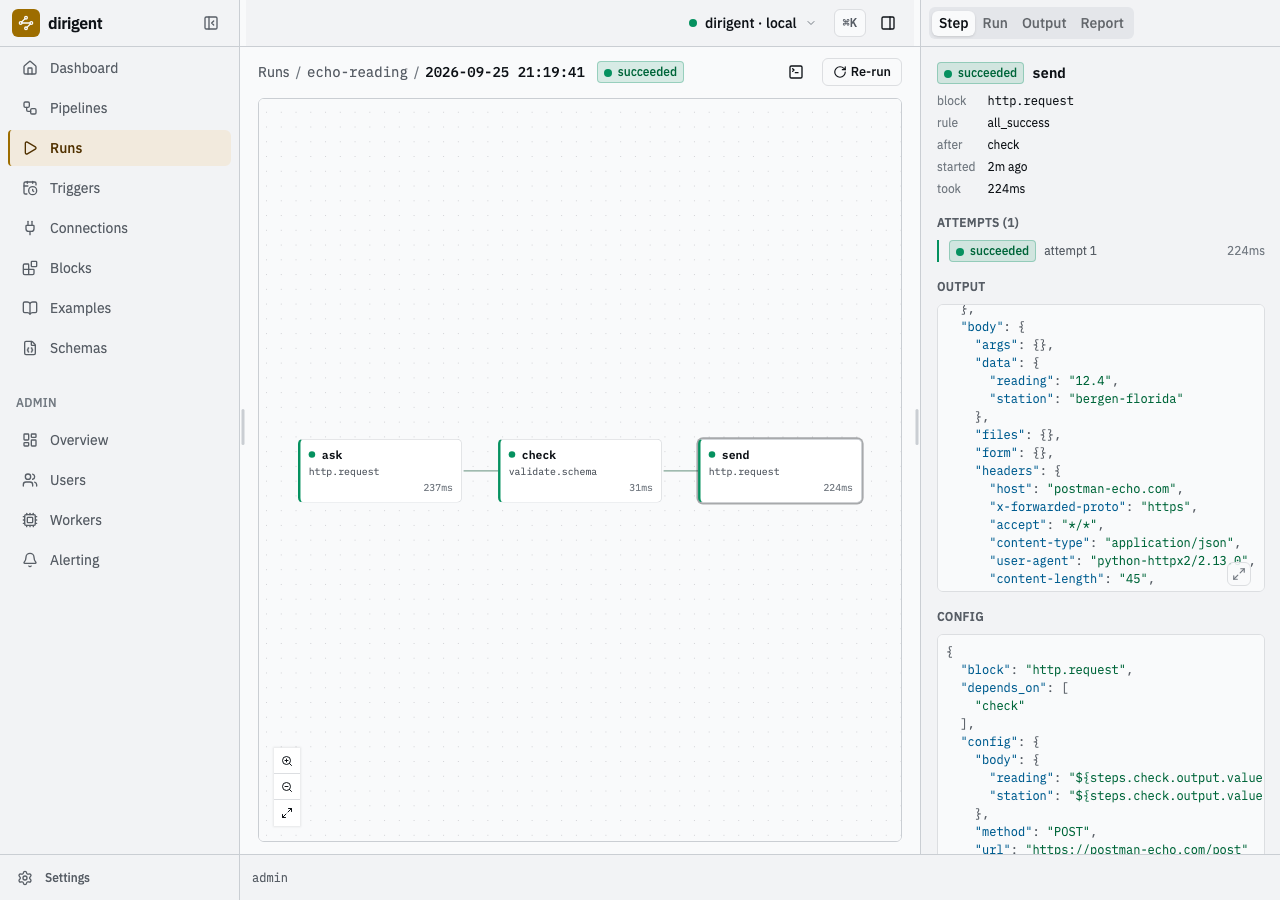
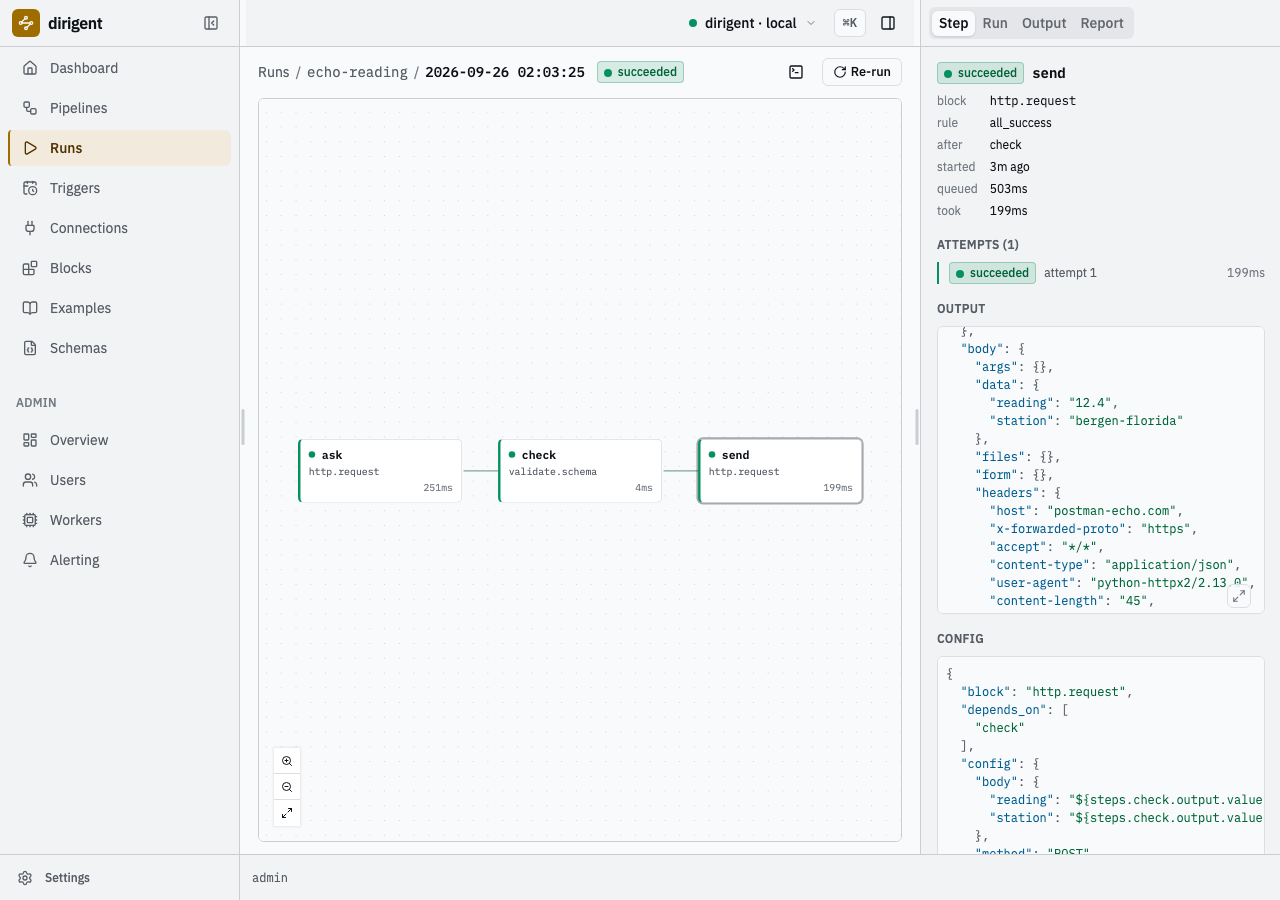
docs: re-shoot the basics tutorial on 0.19.0

Changed region(s): [[0.7188, 0.0933, 1.0, 0.9644], [0.4062, 0.0622, 0.4688, 0.0933], [0.9688, 0.28, 1.0, 0.3111]]

diff --git a/docs/basics.md b/docs/basics.md
@@ -48,7 +48,7 @@ uv sync
 ```
 
 ```text
-2026-09-25T21:17:22.030+02:00 [info    ] initialised                    [instance.initialised] directory=/home/you/basics state=.dirigent/state schema=0001_baseline admin=admin template=local version=0.18.4
+2026-09-26T01:58:26.030+02:00 [info    ] initialised                    [instance.initialised] directory=/home/you/basics state=.dirigent/state schema=0001_baseline admin=admin template=local version=0.19.0
 ```
 
 It creates the state directory, migrates the schema, creates the first admin, and mints that
@@ -139,13 +139,13 @@ uv run dg run --local hello.yaml
 ```
 
 ```text
-2026-09-25T21:17:36.204+02:00 [info    ] started                        [run] pipeline=hello run_id=01a0ad18-3220-76eb-8df9-e50dacb275d9 local=true scratch=file:///tmp/dirigent-local-8tksuueg/artifacts/runs/01a0ad18-3220-76eb-8df9-e50dacb275d9 root=/tmp/dirigent-local-8tksuueg
-2026-09-25T21:17:36.200+02:00 [info    ] queued                         [step make] block=value.const attempt=1
-2026-09-25T21:17:36.244+02:00 [info    ] finished                       [log make] duration_ms=0 output_bytes=31
-2026-09-25T21:17:36.239+02:00 [info    ] succeeded                      [step make] block=value.const attempt=1 duration_ms=9
-2026-09-25T21:17:36.297+02:00 [info    ] the step before me said: hello from dirigent [log say]
-2026-09-25T21:17:36.297+02:00 [info    ] succeeded                      [step say] block=log.write attempt=1 duration_ms=4
-2026-09-25T21:17:36.394+02:00 [info    ] succeeded                      [run] pipeline=hello run_id=01a0ad18-3220-76eb-8df9-e50dacb275d9 exit_code=0
+2026-09-26T02:01:08.204+02:00 [info    ] started                        [run] pipeline=hello run_id=01a0ad18-3220-76eb-8df9-e50dacb275d9 local=true scratch=file:///tmp/dirigent-local-8tksuueg/artifacts/runs/01a0ad18-3220-76eb-8df9-e50dacb275d9 root=/tmp/dirigent-local-8tksuueg
+2026-09-26T02:01:08.200+02:00 [info    ] queued                         [step make] block=value.const attempt=1
+2026-09-26T02:01:08.244+02:00 [info    ] finished                       [log make] duration_ms=0 output_bytes=31
+2026-09-26T02:01:08.239+02:00 [info    ] succeeded                      [step make] block=value.const attempt=1 duration_ms=9
+2026-09-26T02:01:08.297+02:00 [info    ] the step before me said: hello from dirigent [log say]
+2026-09-26T02:01:08.297+02:00 [info    ] succeeded                      [step say] block=log.write attempt=1 duration_ms=4
+2026-09-26T02:01:08.394+02:00 [info    ] succeeded                      [run] pipeline=hello run_id=01a0ad18-3220-76eb-8df9-e50dacb275d9 exit_code=0
 steps
 ┏━━━━━━┳━━━━━━━━━━━━━┳━━━━━━━━━━━┳━━━━━━━┳━━━━━━━━━━┳━━━━━━━━━━━━━━━━━━━━━━━━━━━┓
 ┃ step ┃ block       ┃ outcome   ┃ after ┃ duration ┃ output                    ┃
@@ -239,10 +239,10 @@ uv run dg validate pipelines/echo-reading.yaml
 ```
 
 ```text
-2026-09-25T21:17:45.109+02:00 [info    ] valid                          [validation] code=echo-reading document=pipelines/echo-reading.yaml checked="document, offline"
+2026-09-26T02:01:15.109+02:00 [info    ] valid                          [validation] code=echo-reading document=pipelines/echo-reading.yaml checked="document, offline"
   each step under the last one it waits for
     ask  (http.request)
-2026-09-25T21:17:45.111+02:00 [info    ] valid                          [validated] documents=1 invalid=0
+2026-09-26T02:01:15.111+02:00 [info    ] valid                          [validated] documents=1 invalid=0
 ```
 
 Then store it on the instance and run it:
@@ -265,21 +265,21 @@ run 01a0ad18-60eb-7566-8497-7f16384117ed
 pipeline      echo-reading (version 1)
 status        succeeded
 triggered by  admin (token init)
-duration      0.3s
+duration      0.2s
 items         -
 
 steps
 ┏━━━━━━┳━━━━━━━━━━━━━━┳━━━━━━━━━━━┳━━━━━━━┳━━━━━━━━━━┳━━━━━━━━━━┳━━━━━━━┓
 ┃ step ┃ block        ┃ outcome   ┃ after ┃ attempts ┃ duration ┃ error ┃
 ┡━━━━━━╇━━━━━━━━━━━━━━╇━━━━━━━━━━━╇━━━━━━━╇━━━━━━━━━━╇━━━━━━━━━━╇━━━━━━━┩
-│ ask  │ http.request │ succeeded │ -     │ 1        │ 0.3s     │ -     │
+│ ask  │ http.request │ succeeded │ -     │ 1        │ 0.2s     │ -     │
 └──────┴──────────────┴───────────┴───────┴──────────┴──────────┴───────┘
 
 outputs
 ┏━━━━━━┳━━━━━━━━━━━━━━━━━━━━━━━━━━━━━━━━━━━━━━━━━━━━━━━━━━━━━━━━━━━━━━━━━━━━━━━━━━━━━━━┓
 ┃ step ┃ output                                                                        ┃
 ┡━━━━━━╇━━━━━━━━━━━━━━━━━━━━━━━━━━━━━━━━━━━━━━━━━━━━━━━━━━━━━━━━━━━━━━━━━━━━━━━━━━━━━━━┩
-│ ask  │ status=200  headers={12 keys}  body={3 keys}  body_bytes=273  duration_ms=245 │
+│ ask  │ status=200  headers={12 keys}  body={3 keys}  body_bytes=273  duration_ms=233 │
 └──────┴───────────────────────────────────────────────────────────────────────────────┘
 ```
 
@@ -312,7 +312,7 @@ uv run dg runs show 01a0ad18-60eb-7566-8497-7f16384117ed --json \
 The query arguments came back under `args`, with the parameter's default in `station`. The same
 run is on the Runs screen of the UI, and choosing a step opens what it produced:
 
-![A run in the UI: one step named ask, succeeded in 258 milliseconds, its output showing the echoed args.](images/basics/run-first.png)
+![A run in the UI: one step named ask, succeeded in 242 milliseconds, its output showing the echoed args.](images/basics/run-first.png)
 
 *The run's only step, its one attempt, and the answer it stored.*
 
@@ -375,7 +375,7 @@ uv run dg apply
 ```
 
 ```text
-2026-09-25T21:18:40.458+02:00 [error   ] this document carries its own schemas (echo-reading), which an instance will not store: create them with `dg schema create` and let the document name them in requires.schemas [error] status=422 title="Unprocessable Content" code=server.document_refused params={"detail":"this document carries its own schemas (echo-reading), which an instance will not store: create them with `dg schema create` and let the document name them in requires.schemas"} instance=/api/v1/pipelines/$apply
+2026-09-26T02:02:14.458+02:00 [error   ] this document carries its own schemas (echo-reading), which an instance will not store: create them with `dg schema create` and let the document name them in requires.schemas [error] status=422 title="Unprocessable Content" code=server.document_refused params={"detail":"this document carries its own schemas (echo-reading), which an instance will not store: create them with `dg schema create` and let the document name them in requires.schemas"} instance=/api/v1/pipelines/$apply
   - this document carries its own schemas (echo-reading), which an instance will not store: create them with `dg schema create` and let the document name them in requires.schemas
 ```
 
@@ -400,7 +400,7 @@ steps
 ┃ step  ┃ block           ┃ outcome   ┃ after ┃ duration ┃ output                                  ┃
 ┡━━━━━━━╇━━━━━━━━━━━━━━━━━╇━━━━━━━━━━━╇━━━━━━━╇━━━━━━━━━━╇━━━━━━━━━━━━━━━━━━━━━━━━━━━━━━━━━━━━━━━━━┩
 │ ask   │ http.request    │ succeeded │ -     │ 0.3s     │ status=200  headers={12 keys}  body={3  │
-│       │                 │           │       │          │ keys}  body_bytes=273  duration_ms=301  │
+│       │                 │           │       │          │ keys}  body_bytes=273  duration_ms=242  │
 │ check │ validate.schema │ succeeded │ ask   │ 0.0s     │ value={3 keys}                          │
 └───────┴─────────────────┴───────────┴───────┴──────────┴─────────────────────────────────────────┘
 ```
@@ -422,7 +422,7 @@ steps
 ┡━━━━━━━━━━━━━━━╇━━━━━━━━━━━━━━━━━╇━━━━━━━━━━━╇━━━━━━━╇━━━━━━━━━━╇━━━━━━━━━━━━━━━━━━━━━━━━━━━━━━━━━┩
 │ ask           │ http.request    │ succeeded │ -     │ 0.2s     │ status=200  headers={12 keys}   │
 │               │                 │           │       │          │ body={3 keys}  body_bytes=273   │
-│               │                 │           │       │          │ duration_ms=235                 │
+│               │                 │           │       │          │ duration_ms=237                 │
 │ check  1 warn │ validate.schema │ failed    │ ask   │ 0.0s     │ -                               │
 └───────────────┴─────────────────┴───────────┴───────┴──────────┴─────────────────────────────────┘
 
@@ -567,7 +567,7 @@ steps
 ┏━━━━━━━┳━━━━━━━━━━━━━━━━━┳━━━━━━━━━━━┳━━━━━━━┳━━━━━━━━━━┳━━━━━━━━━━┳━━━━━━━┓
 ┃ step  ┃ block           ┃ outcome   ┃ after ┃ attempts ┃ duration ┃ error ┃
 ┡━━━━━━━╇━━━━━━━━━━━━━━━━━╇━━━━━━━━━━━╇━━━━━━━╇━━━━━━━━━━╇━━━━━━━━━━╇━━━━━━━┩
-│ ask   │ http.request    │ succeeded │ -     │ 1        │ 0.2s     │ -     │
+│ ask   │ http.request    │ succeeded │ -     │ 1        │ 0.3s     │ -     │
 │ check │ validate.schema │ succeeded │ ask   │ 1        │ 0.0s     │ -     │
 │ send  │ http.request    │ succeeded │ check │ 1        │ 0.2s     │ -     │
 └───────┴─────────────────┴───────────┴───────┴──────────┴──────────┴───────┘
@@ -576,9 +576,9 @@ outputs
 ┏━━━━━━━┳━━━━━━━━━━━━━━━━━━━━━━━━━━━━━━━━━━━━━━━━━━━━━━━━━━━━━━━━━━━━━━━━━━━━━━━━━━━━━━━┓
 ┃ step  ┃ output                                                                        ┃
 ┡━━━━━━━╇━━━━━━━━━━━━━━━━━━━━━━━━━━━━━━━━━━━━━━━━━━━━━━━━━━━━━━━━━━━━━━━━━━━━━━━━━━━━━━━┩
-│ ask   │ status=200  headers={12 keys}  body={3 keys}  body_bytes=273  duration_ms=224 │
+│ ask   │ status=200  headers={12 keys}  body={3 keys}  body_bytes=273  duration_ms=222 │
 │ check │ value={3 keys}                                                                │
-│ send  │ status=200  headers={12 keys}  body={7 keys}  body_bytes=378  duration_ms=199 │
+│ send  │ status=200  headers={12 keys}  body={7 keys}  body_bytes=378  duration_ms=187 │
 └───────┴───────────────────────────────────────────────────────────────────────────────┘
 ```
 
@@ -703,10 +703,10 @@ steps
 ┏━━━━━━━━━┳━━━━━━━━━━━━━━┳━━━━━━━━━┳━━━━━━━┳━━━━━━━━━━┳━━━━━━━━┓
 ┃ step    ┃ block        ┃ outcome ┃ after ┃ duration ┃ output ┃
 ┡━━━━━━━━━╇━━━━━━━━━━━━━━╇━━━━━━━━━╇━━━━━━━╇━━━━━━━━━━╇━━━━━━━━┩
-│ refused │ http.request │ failed  │ -     │ 0.4s     │ -      │
+│ refused │ http.request │ failed  │ -     │ 0.2s     │ -      │
+│ unlucky │ http.request │ failed  │ -     │ 0.5s     │ -      │
 │ unlucky │ http.request │ failed  │ -     │ 0.3s     │ -      │
-│ unlucky │ http.request │ failed  │ -     │ 0.3s     │ -      │
-│ unlucky │ http.request │ failed  │ -     │ 0.3s     │ -      │
+│ unlucky │ http.request │ failed  │ -     │ 0.2s     │ -      │
 └─────────┴──────────────┴─────────┴───────┴──────────┴────────┘
 
 refused failed  http.request, attempt 1, rejected
